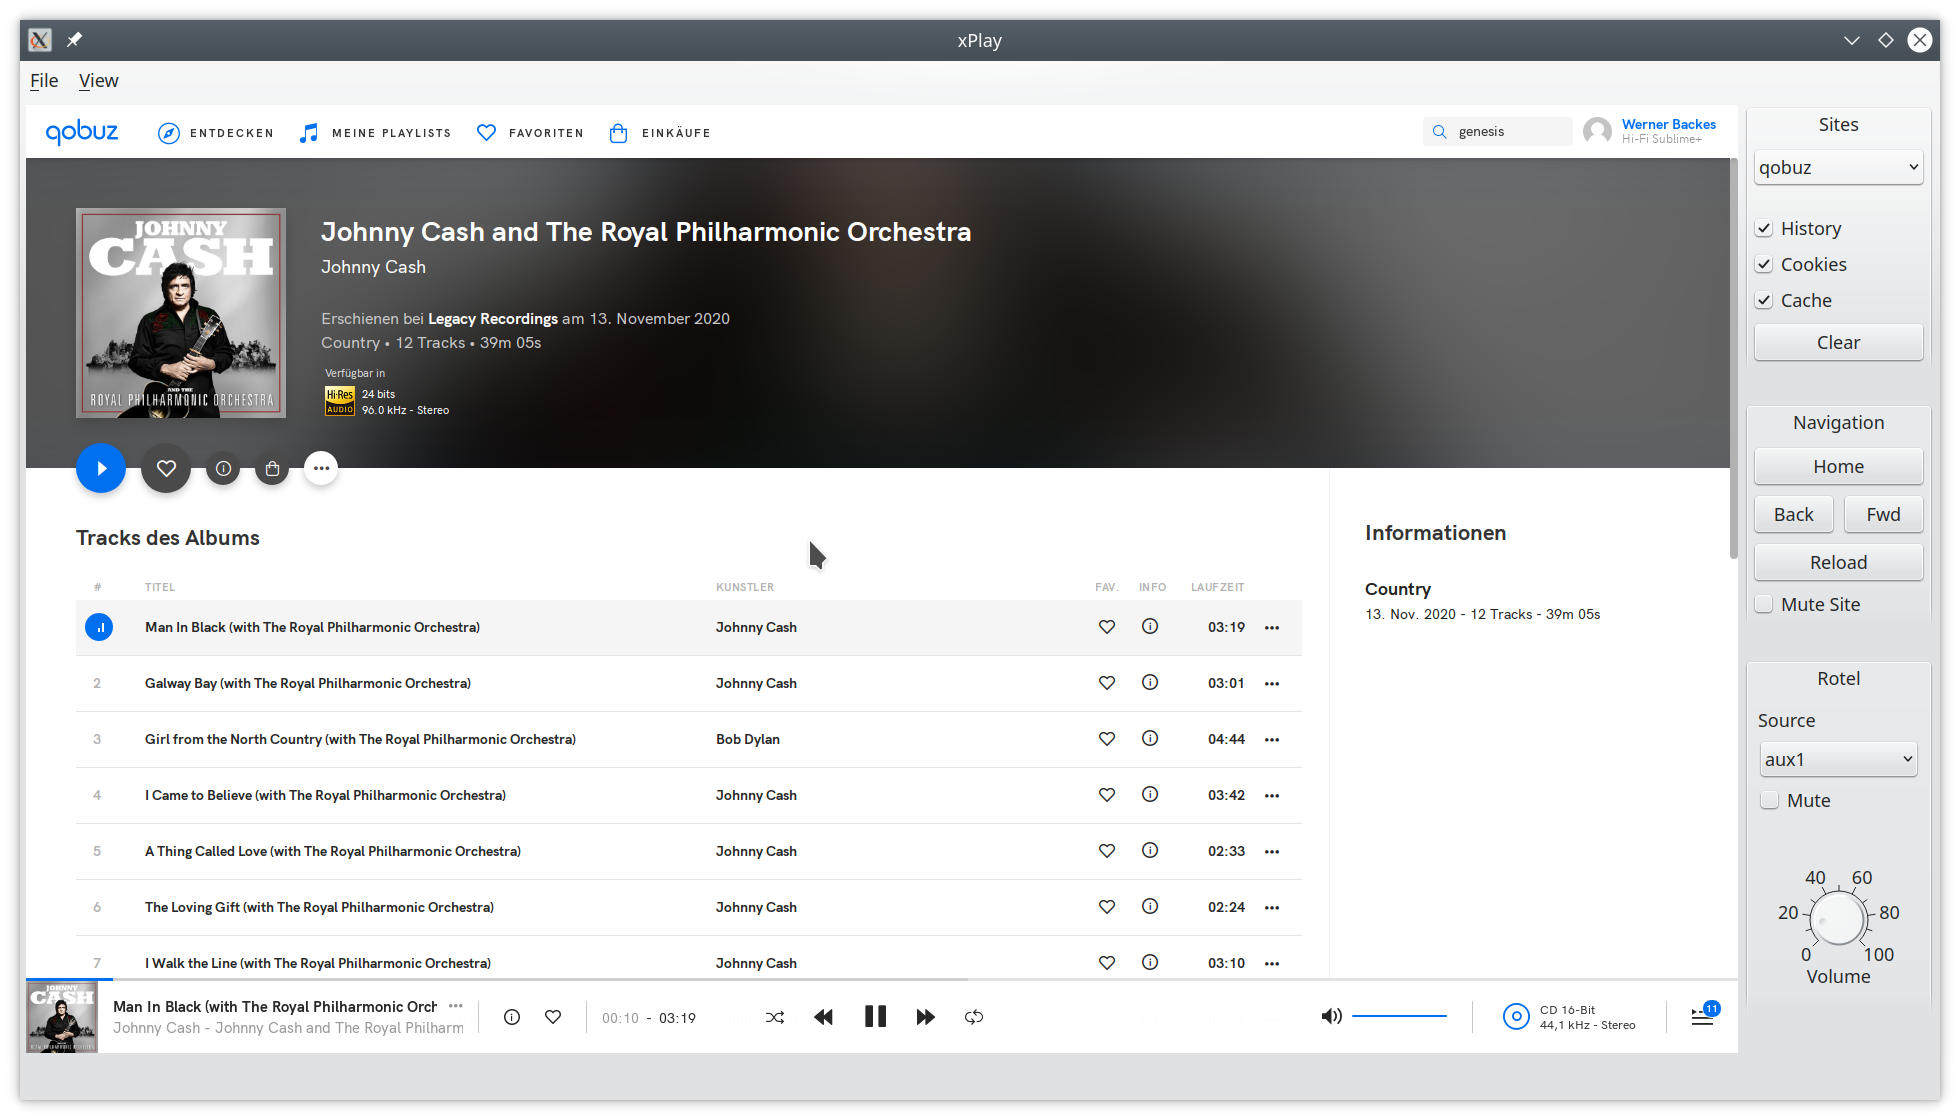
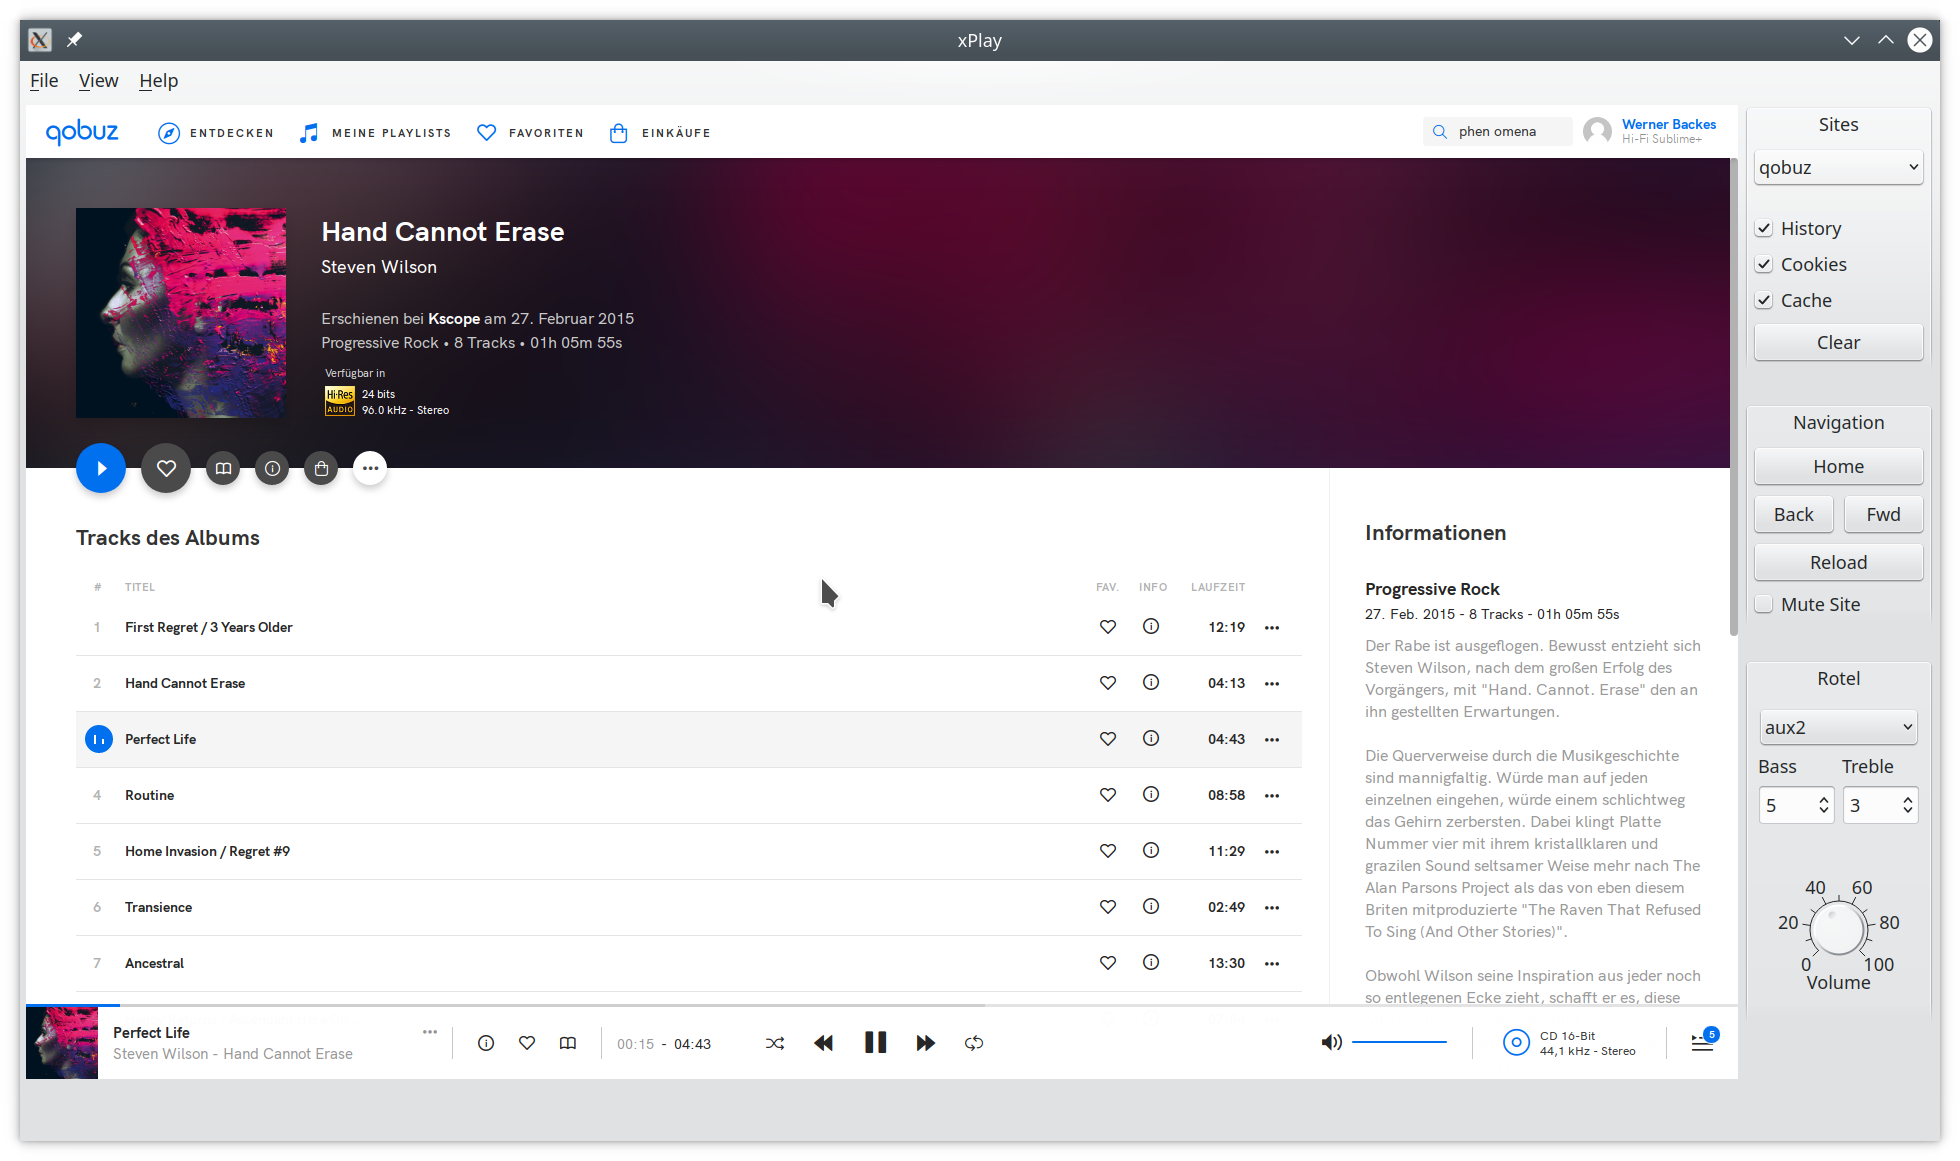
Update CHANGELOG.md and README.md. Update screenshots and version number.

diff --git a/xPlay.cpp b/xPlay.cpp
@@ -147,7 +147,7 @@ int main(int argc, char* argv[])
 {
     QApplication playApp(argc, argv);
     QApplication::setApplicationName("xPlay");
-    QApplication::setApplicationVersion("0.4.1");
+    QApplication::setApplicationVersion("0.4.3");
     if (handleCommandLine(playApp)) {
         // Exit if the command line was handled.
         return 0;

diff --git a/README.md b/README.md
@@ -78,6 +78,7 @@ xPlay has a music view, a movie view and a streaming view.
 ### Music View 
 
 ![Screenshot Music View](screenshots/xplay_screenshot_music_view_00.png)
+![Screenshot Music View](screenshots/xplay_screenshot_music_view_01.png)
 
 The main screen of the music view has four vertical list for the artists, album, tracks and the queue. The 
 album list is updated if you click (or select) on an artist and the track list is updated if you click (or select) 
@@ -90,6 +91,9 @@ The player itself displays the artist, album and track currently played. It incl
 currently played file. In addition there is player control section with a *play/pause*, *stop*, *prev*, *next*
 and *clear queue* buttons and a volume dialer. If you double-click on an entry of the queue then the player jumps
 to this track. Right-clicking on a queue entry will remove this track from the queue.
+
+The Rotel widget allows to control a Rotel A12 or A14 amp via a network connection. The volume can be adjusted 
+(maximum of 60) and the input can be selected. The values for bass and treble can be adjusted (from -10 to +10).
 
 ### Movie View 
 
@@ -109,6 +113,8 @@ may be usable for some movies that have black borders. The video output window c
 In addition you can rewind and forward by 60 seconds using the left and right arrow keys. The up and down arrow keys 
 will increase or decrease the volume by one. The *S* key will toggle the scale and crop mode. The *ESC* key can be 
 used to end the full window mode. The full window mode will automatically end if the current movie is about to end.
+If the *Autoplay Next* checkbox is enabled then the next movie in the movie list will be played as soon as the 
+current movie has ended. The player will stay in fill window mode until the last movie of the list is finished.
 
 ### Streaming View
 
@@ -124,9 +130,17 @@ may change for coming versions of QWebEngine.
 
 ### Menu
 
-The file menu has currently two entries. An *Exit* and *Configure* entry. The *Configure* will
-display a file dialog that allows you to select a base directory for your music library. This directory is stored
-using QSettings and is retrieved on startup of xPlay.
+The menu has three entries *File*, *View* and *Help*. The *File* menu has four entries. The *Configure* entry 
+will open configuration dialog (see below). The entries *Rescan Music Library* and *Rescan Movie Library* trigger
+a rescan of the currently configured music or movie library. The entries *View* menu allows to switch between
+the *Music View*, *Movie View* or *Streaming View*. The *Help* menu has two entries displaying copyright 
+information about the used Qt and Qwt libraries.
+
+#### Configuration Dialog
+
+The configuration dialog is using QSettings to load and store the xPlay configuration. The directory and 
+extensions for the music and the movie library can be configured as well as the sites for the streaming view.
+The Rotel widget can be enabled or disabled and its network configuration can be configured.
 
 ![Screenshot Configuration Dialog](screenshots/xplay_screenshot_configuration_dialog.png)
 

diff --git a/CHANGELOG.md b/CHANGELOG.md
@@ -1,5 +1,10 @@
 # Changelog
 
+## 0.4.3 - 2020-12-12
+
+- Add autoplay next movie feature. Updated movie player UI.
+- Allow enable/disable of Rotel widget in configuration dialog.
+
 ## 0.4.2 - 2020-12-09
 
 - Do a proper UI cleanup on rescanning the movie or music library.
